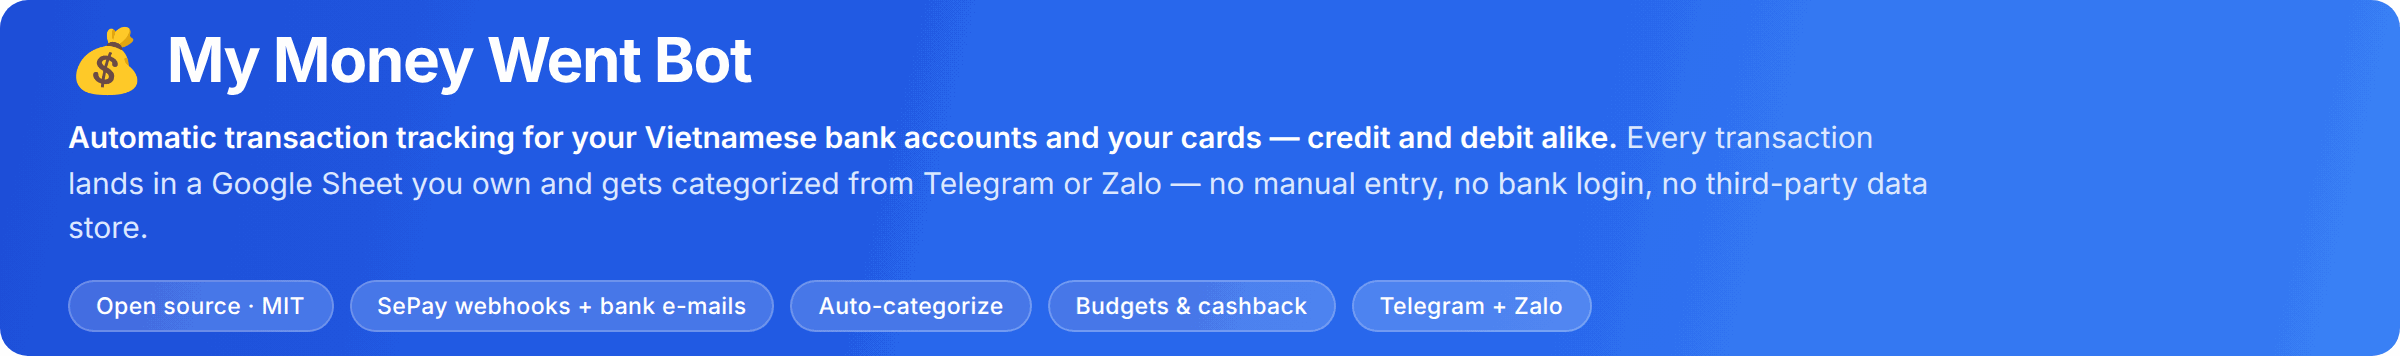
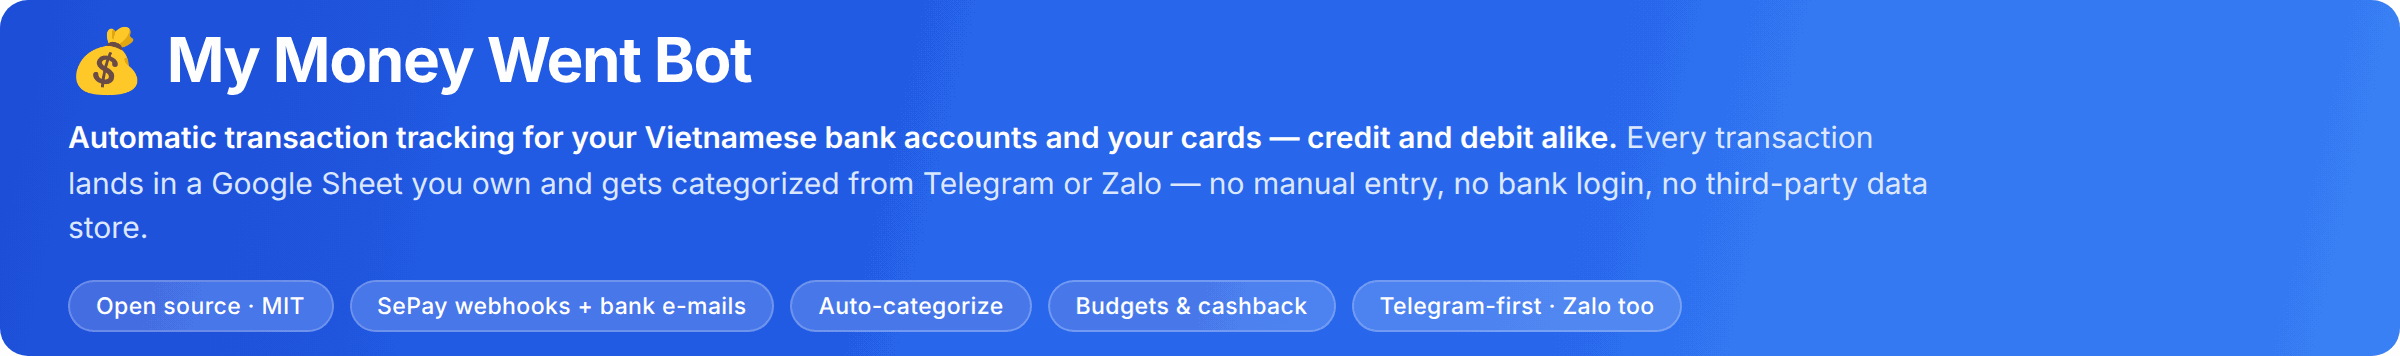
docs: say which channel is the good one, and why it is the platform's doing
The bot has always run on Telegram and Zalo, and the docs listed them as if the
choice were a coin flip. It is not. Every command, every report, every cashback
figure exists on both — but Zalo's Bot API sends plain text and nothing else,
so the two do not feel remotely alike:

  * a category picker is inline buttons on Telegram and a numbered list you
    reply to on Zalo,
  * a message Telegram edits in place becomes a new message each time,
  * bold, italic and code are stripped before sending (_strip_markdown),
  * the "/" command menu has nowhere to be published,
  * and a long report is chunked at ZALO_TEXT_LIMIT, 2000 characters.

None of that is missing work in this bot. ZALO_INLINE_KEYBOARD is False on
purpose — Zalo callbacks must not enter Telegram's state and transport
handlers — and the bot still attempts an inline keyboard on top of the numbered
text, so it would light up the day Zalo renders one.

So the READMEs now say plainly that Telegram is the channel this bot is best on
and the one to pick without a strong preference, with a table of what actually
differs. Telegram is required regardless — BOT_TOKEN, CHAT_ID and
TELEGRAM_WEBHOOK_SECRET are mandatory and the bot exits without them — so Zalo
is turned on in addition, never instead.

And the forward-looking half, kept honest: the bot sends no charts or images on
either channel today. What the difference means is that anything richer than
[…]

Changed region(s): [[0.625, 0.7725, 0.7188, 0.9579]]

diff --git a/README.vi.md b/README.vi.md
@@ -8,7 +8,7 @@
 
 ![My Money Went Bot — automatic transaction tracking for Vietnamese bank accounts and cards, credit and debit, written to a Google Sheet you own and categorized from Telegram or Zalo](docs/screenshots/banner.png)
 
-**Tự động theo dõi giao dịch thẻ — tín dụng lẫn ghi nợ — và tài khoản ngân hàng Việt Nam.** Mỗi giao dịch tự vào Google Sheet của bạn và được phân loại ngay trong Telegram hoặc Zalo — không nhập tay, không đưa login ngân hàng, không lưu data ở bên thứ ba.
+**Tự động theo dõi giao dịch thẻ — tín dụng lẫn ghi nợ — và tài khoản ngân hàng Việt Nam.** Mỗi giao dịch tự vào Google Sheet của bạn và được phân loại ngay trong **Telegram** — hoặc **Zalo**, nếu đó là chỗ bạn ở. Không nhập tay, không đưa login ngân hàng, không lưu data ở bên thứ ba.
 
 > 🙏 **Credits:** xây dựng dựa trên các pattern từ [`maddyle8124/spend-less-bot`](https://github.com/maddyle8124/spend-less-bot). Cảm ơn Maddy rất nhiều — không có repo gốc này thì My Money Went cũng không có.
 
@@ -77,7 +77,7 @@ vào *đâu*, không cần biết giá trị của bạn là gì.
 
 ![How it works — a bank account transaction arrives by SePay webhook and a card swipe, credit or debit, arrives as a notification email via Gmail and Apps Script; the bot deduplicates, resolves the account and categorizes it; the row lands in your Google Sheet and comes back to you on Telegram or Zalo](docs/screenshots/how-it-works.png)
 
-**My Money Went Bot là bot theo dõi chi tiêu cá nhân sống trong chat Telegram (hoặc Zalo) của bạn.** Nó bắt giao dịch ngay khi vừa phát sinh, từ hai nguồn cùng lúc:
+**My Money Went Bot là bot theo dõi chi tiêu cá nhân sống trong chat Telegram — hoặc Zalo — của bạn.** Nó bắt giao dịch ngay khi vừa phát sinh, từ hai nguồn cùng lúc:
 
 - **Tài khoản ngân hàng Việt Nam** — link với [SePay](https://sepay.vn), mọi khoản chuyển khoản, thanh toán thẻ hay nhận lương đều về dưới dạng webhook trong vài giây. Gói Free của SePay đủ 50 giao dịch/tháng — xem [SePay tính phí thế nào](#sepay-tính-phí-thế-nào).
 - **Thẻ — tín dụng và ghi nợ (debit)** — ngân hàng gửi email cho mỗi lần quẹt, và một Google Apps Script nhỏ chuyển email đó tới bot. Hai loại thẻ đi chung một đường; thẻ debit không cần code riêng, chỉ cần ngân hàng có gửi email báo giao dịch. Cách này cũng phủ luôn các ngân hàng SePay chưa ký. Không tốn phí.
@@ -174,7 +174,19 @@ Chi tiết từng tính năng.
 
 ### Ở mọi kênh
 
-💬 **Kênh Zalo** — cùng các flow trên Zalo Bot Platform qua menu đánh số: category picker, `/report`, `/manage`, `/allocate`, `/keywords`, `/cashback`, `/recat`, `/pending`.
+💬 **Hai kênh — Telegram là chính, Zalo chạy song song.** Mọi flow đều có ở cả hai: category picker, `/report`, `/manage`, `/allocate`, `/keywords`, `/cashback`, `/recat`, `/pending`. Nhưng trải nghiệm không giống nhau, và lý do nằm ở nền tảng chứ không phải ở bot.
+
+| | Telegram | Zalo Bot Platform |
+|---|---|---|
+| Chọn danh mục | tap nút inline | reply một con số (`1`, `2`, `0`) |
+| Cập nhật tin nhắn | sửa tại chỗ | mỗi lần một tin mới |
+| Định dạng | in đậm, in nghiêng, `code` | bị lược về text thuần |
+| Menu lệnh | danh sách `/` hiện sẵn trong app | tự nhớ mà gõ |
+| Báo cáo dài | gửi nguyên | cắt theo `ZALO_TEXT_LIMIT` (2000 ký tự) |
+
+API của Zalo Bot chỉ gửi được text thuần, không hơn — không inline keyboard, không sửa tin nhắn, không callback — nên bot render mọi bộ nút thành danh sách đánh số và bảo bạn reply con số. Vẫn chạy tốt, vẫn có người dùng hằng ngày. Chỉ là gõ nhiều hơn.
+
+**Nên Telegram là kênh nhận được nhiều nhất từ bot này, và là kênh nên chọn nếu bạn không nghiêng hẳn về bên nào.** Telegram cũng bắt buộc dù thế nào: `BOT_TOKEN`, `CHAT_ID` và `TELEGRAM_WEBHOOK_SECRET` là bắt buộc, thiếu là bot không khởi động — nên Zalo là thứ bạn bật **thêm**, không phải bật **thay**. Sau này có gì phong phú hơn text — biểu đồ chi tiêu, ảnh, file export — cũng chỉ về được Telegram, cho tới khi API Zalo đủ sức chở.
 
 🌐 **Song ngữ** — `/lang` đổi toàn bộ bot giữa Tiếng Việt và English.
 
@@ -443,7 +455,7 @@ Từ đây mỗi lần quẹt được track như mọi giao dịch khác. Muố
 | `/cancel` | Hủy flow nhiều bước đang làm dở. |
 | `/help` | Danh sách lệnh. |
 
-💡 Chỗ nào bot hỏi số tiền đều nhập tắt được: `500k`, `3tr`, `3tr5`, `1m2`, `2 triệu` — bot tự hiểu là VND. Đa số lệnh cũng chạy trên Zalo qua menu đánh số.
+💡 Chỗ nào bot hỏi số tiền đều nhập tắt được: `500k`, `3tr`, `3tr5`, `1m2`, `2 triệu` — bot tự hiểu là VND. Mọi lệnh đều chạy trên Zalo; chỗ nào Telegram hiện nút thì Zalo hiện danh sách đánh số để bạn reply.
 
 ---
 

diff --git a/README.md b/README.md
@@ -7,7 +7,7 @@
 
 ![My Money Went Bot — automatic transaction tracking for Vietnamese bank accounts and cards, credit and debit, written to a Google Sheet you own and categorized from Telegram or Zalo](docs/screenshots/banner.png)
 
-**Automatic transaction tracking for your Vietnamese bank accounts and your cards — credit and debit alike.** Every transaction lands in a Google Sheet you own and gets categorized from Telegram or Zalo — no manual entry, no bank login, no third-party data store.
+**Automatic transaction tracking for your Vietnamese bank accounts and your cards — credit and debit alike.** Every transaction lands in a Google Sheet you own and gets categorized from **Telegram** — or from **Zalo**, if that is where you live. No manual entry, no bank login, no third-party data store.
 
 > 🙏 **Credits:** built on top of patterns from [`maddyle8124/spend-less-bot`](https://github.com/maddyle8124/spend-less-bot). Big thanks to Maddy — without that seed this wouldn't exist.
 
@@ -77,7 +77,7 @@ assistant only ever needs to know *where* to click, not what your values are.
 
 ![How it works — a bank account transaction arrives by SePay webhook and a card swipe, credit or debit, arrives as a notification email via Gmail and Apps Script; the bot deduplicates, resolves the account and categorizes it; the row lands in your Google Sheet and comes back to you on Telegram or Zalo](docs/screenshots/how-it-works.png)
 
-**My Money Went Bot is a personal expense tracker that lives in your Telegram (or Zalo) chat.** It catches your transactions the moment they happen, from two sources at once:
+**My Money Went Bot is a personal expense tracker that lives in your Telegram — or Zalo — chat.** It catches your transactions the moment they happen, from two sources at once:
 
 - **Vietnamese bank accounts** — link them to [SePay](https://sepay.vn) and every transfer, card payment or salary arrives as a webhook within seconds. SePay's free plan covers 50 transactions a month; see [What SePay costs](#what-sepay-costs).
 - **Cards — credit and debit** — your bank emails you for every swipe, and a small Google Apps Script forwards those emails to the bot. Both card types travel the identical path; a debit card needs no code of its own, only an alert email. This also covers any bank SePay hasn't signed. Costs nothing.
@@ -174,7 +174,19 @@ The full feature breakdown.
 
 ### Everywhere
 
-💬 **Zalo channel** — the same flows on Zalo Bot Platform via numbered text menus: category picker, `/report`, `/manage`, `/allocate`, `/keywords`, `/cashback`, `/recat`, `/pending`.
+💬 **Two channels — Telegram first, Zalo alongside it.** Every flow exists on both: the category picker, `/report`, `/manage`, `/allocate`, `/keywords`, `/cashback`, `/recat`, `/pending`. But they do not feel the same, and the reason is the platforms, not the bot.
+
+| | Telegram | Zalo Bot Platform |
+|---|---|---|
+| Pick a category | tap an inline button | reply with a number (`1`, `2`, `0`) |
+| Message updates | edited in place as you go | a new message each time |
+| Formatting | bold, italic, `code` | stripped to plain text |
+| Command menu | the `/` list, published to the client | type the command from memory |
+| Long reports | sent whole | chunked at `ZALO_TEXT_LIMIT` (2000 chars) |
+
+Zalo Bot's API sends plain text and nothing else — no inline keyboards, no message editing, no callback answers — so the bot renders every button set as a numbered list and asks you to reply with the number. It works, and people use it daily. It is just more typing.
+
+**So Telegram is the channel that gets the best of this bot, and the one to pick if you have no strong preference.** It is also required either way: `BOT_TOKEN`, `CHAT_ID` and `TELEGRAM_WEBHOOK_SECRET` are mandatory and the bot will not start without them, so Zalo is something you turn on *in addition*, not instead. Anything richer than text that comes later — a spending chart, an image, a document export — can only land on Telegram until Zalo's API grows the ability to carry it.
 
 🌐 **Bilingual UI** — `/lang` switches the whole bot between Vietnamese and English.
 
@@ -445,7 +457,7 @@ Every swipe is now tracked like any other transaction. To add cashback on top, r
 | `/cancel` | Abort the current multi-step flow. |
 | `/help` | Command list. |
 
-💡 Wherever the bot asks for an amount, Vietnamese shorthand works: `500k`, `3tr`, `3tr5`, `1m2`, `2 triệu` — all parsed as VND. Most commands also work on Zalo via numbered menus.
+💡 Wherever the bot asks for an amount, Vietnamese shorthand works: `500k`, `3tr`, `3tr5`, `1m2`, `2 triệu` — all parsed as VND. Every command also works on Zalo; where Telegram shows buttons, Zalo shows a numbered list you reply to.
 
 ---
 

diff --git a/docs/wiki/Zalo-Setup.md b/docs/wiki/Zalo-Setup.md
@@ -1,6 +1,22 @@
 # Zalo Setup
 
-Zalo is an **additional channel alongside Telegram**, not a replacement for it: `BOT_TOKEN`, `CHAT_ID` and `TELEGRAM_WEBHOOK_SECRET` are required and the bot exits at startup without them (`config.py`). Set Telegram up first, then add Zalo with this page. The Google Sheet, SePay, and the security secrets (`SEPAY_SECRET`, `CRON_SECRET`) are required either way — see [Railway Deployment](Railway-Deployment) and [Google Sheets Setup](Google-Sheets-Setup).
+Zalo is an **additional channel alongside Telegram**, not a replacement for it: `BOT_TOKEN`, `CHAT_ID` and `TELEGRAM_WEBHOOK_SECRET` are required and the bot exits at startup without them (`config.py`). Set Telegram up first, then add Zalo with this page.
+
+## What Zalo can and cannot do
+
+Zalo's Bot API sends plain text and nothing else. Every difference below follows from that one fact — none of it is missing work in this bot:
+
+| | Telegram | Zalo |
+|---|---|---|
+| Category picker | inline buttons you tap | a numbered list you reply to (`1`, `2`, `0`) |
+| Message updates | edited in place | a new message each time |
+| Bold / italic / `code` | rendered | stripped before sending (`messenger._strip_markdown`) |
+| Command menu | published to the client | type it from memory |
+| Long output | sent whole | chunked at `ZALO_TEXT_LIMIT`, default 2000 characters |
+
+`ZALO_INLINE_KEYBOARD` is `False` on purpose: Zalo callbacks must not enter Telegram's state and transport handlers, so the numbered flow stays until a channel-safe callback core exists. The bot still attempts an inline keyboard on top of the numbered text, so if Zalo ever renders one you get both.
+
+Everything the bot *does* — every command, every report, every cashback figure — is available on Zalo. It is the interaction that costs more typing, and anything richer than text that arrives later will land on Telegram first. The Google Sheet, SePay, and the security secrets (`SEPAY_SECRET`, `CRON_SECRET`) are required either way — see [Railway Deployment](Railway-Deployment) and [Google Sheets Setup](Google-Sheets-Setup).
 
 > **What works on Zalo:** transaction notifications, a numbered-text category picker for uncategorized expenses (reply a number), and the commands `/today`, `/report`, `/accounts`, `/keywords`, `/manage`, `/allocate`, `/recat`, `/cancel`. Zalo has no inline buttons, so everything uses numbered menus.
 >

diff --git a/docs/wiki/Home.md b/docs/wiki/Home.md
@@ -15,7 +15,7 @@ This wiki is the longer, task-based manual for My Money Went Bot. The README is 
 
 ## What the bot does
 
-My Money Went Bot tracks your transactions automatically, into a Google Sheet you own, driven from **Telegram**, with **Zalo** available as a second channel alongside it. Transactions reach it from two sources:
+My Money Went Bot tracks your transactions automatically, into a Google Sheet you own, driven from **Telegram** — the channel this bot is best on — with **Zalo** available as a second channel alongside it. Transactions reach it from two sources:
 
 - **Vietnamese bank accounts.** SePay turns each bank notification into a webhook; the bot writes the row, tags the account, and asks for a category (or applies a keyword rule). SePay's free plan covers 50 transactions a month — see [SePay Setup](SePay-Setup).
 - **Cards — credit and debit.** The bank's own notification emails reach the bot through a Google Apps Script. Both card types use the identical path; a debit card needs nothing but an alert email. This also covers any bank SePay hasn't signed.

diff --git a/CHANGELOG.md b/CHANGELOG.md
@@ -11,6 +11,12 @@ All notable changes to MyMoneyWent will be documented in this file.
   the same as not supporting it. A debit card needs an alert e-mail from its
   bank and nothing else: no parser of its own, no YAML template. It skips the
   statement-cycle and cashback machinery, which is what a debit card should do.
+- The two channels are described honestly: Telegram is the one this bot is best
+  on, Zalo runs alongside it. Zalo's Bot API sends plain text and nothing else,
+  so a category picker becomes a numbered list you reply to, messages are never
+  edited in place, and formatting is stripped — a platform limit, not missing
+  work here. Both READMEs and the Zalo wiki page now carry the comparison, and
+  say that anything richer than text lands on Telegram first.
 - The AI-assisted setup now sits at the top of both READMEs with the prompt
   inline, instead of a link two-thirds of the way down. Setup is mostly
   collecting values and pasting them into one dashboard, which an assistant
